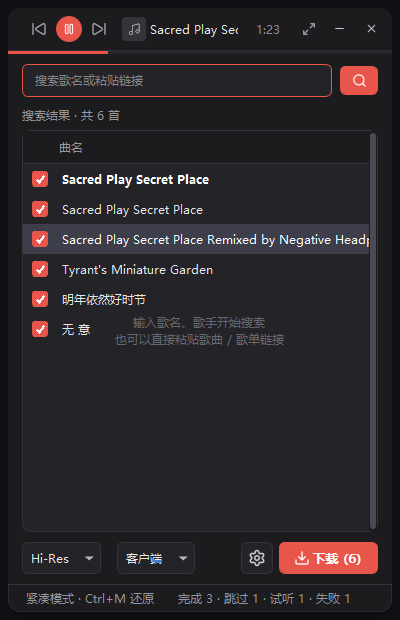
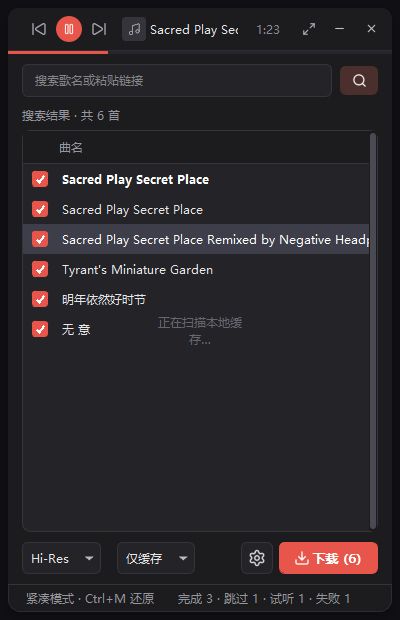
修复登录状态不即时生效、缓存切换重复扫描等问题
- 登录与保存解耦：退出设置即刷新状态栏账号
- 切换「仅缓存」先清空结果并显示扫描中，再扫描
- 修复一次点击启动两个扫描任务（setCurrentIndex 递归触发）
- 扫描失败后停止自动重扫，避免刷屏
- 缓存解密失败回退网络，不再直接报播放失败
- 按码率×体积估算时长，跳过 30 秒试听片段缓存
- 新增停止播放、清理播放缓存
- 版本 1.0.1，截图更新

Changed region(s): [[0.3, 0.4903, 0.72, 0.5823], [0.81, 0.0919, 0.96, 0.1532], [0.3, 0.8887, 0.42, 0.9194]]

diff --git a/gui/main.py b/gui/main.py
@@ -3,7 +3,6 @@ from __future__ import annotations
 
 import logging
 import os
-import tempfile
 from collections import Counter
 from pathlib import Path
 
@@ -257,6 +256,22 @@ class SettingsDialog(RoundDialog):
         cache_row.addWidget(btn_cache)
         form.addRow("缓存目录", cache_row)
 
+        # 未登录时听 VIP 歌会缓存成试听片段，登录后仍是残片；给个入口清掉
+        play_row = QHBoxLayout()
+        play_row.setSpacing(8)
+        self.play_cache_state = QLabel("播放时解密出的临时文件")
+        self.play_cache_state.setObjectName("muted")
+        play_row.addWidget(self.play_cache_state, 1)
+        btn_play_cache = QPushButton("清理")
+        btn_play_cache.setFixedHeight(30)
+        btn_play_cache.setMinimumWidth(58)
+        btn_play_cache.setToolTip(
+            "清掉播放缓存。若某首歌还停在试听片段，清完重新播放会取完整版"
+        )
+        btn_play_cache.clicked.connect(self._clear_play_cache)
+        play_row.addWidget(btn_play_cache)
+        form.addRow("播放缓存", play_row)
+
         self.startup_view = QComboBox()
         self.startup_view.addItem("标准窗口", "full")
         self.startup_view.addItem("紧凑模式", "mini")
@@ -405,6 +420,20 @@ class SettingsDialog(RoundDialog):
                 f"{path}\n这个目录里没有 .uc 缓存文件，可能选错了"
             )
 
+    def _clear_play_cache(self) -> None:
+        from ncm import cache as cache_mod
+
+        count, total = cache_mod.clear_player_cache()
+        if count:
+            self.play_cache_state.setText(
+                f"已清理 {count} 个文件，释放 {total / 1048576:.1f} MB"
+            )
+            self.play_cache_state.setStyleSheet("color:#4caf7d;")
+        else:
+            self.play_cache_state.setText("没有可清理的播放缓存")
+            self.play_cache_state.setStyleSheet("")
+        self.changed = True
+
     def _detect_cache(self) -> None:
         self.cache_dir = cache_mod.default_cache_dir()
         self._refresh_cache_text()
@@ -442,6 +471,9 @@ class MainWindow(QMainWindow):
         self._search_keyword = ""
         self._search_offset = 0
         self._has_more = False
+        # 缓存扫描状态：用于表里那句「正在扫描…」以及失败后停掉自动刷新
+        self._scanning_cache = False
+        self._cache_scan_failed = False
         self._mini = False
         self._full_geometry = None
         self._shadow_px = 12
@@ -746,6 +778,7 @@ class MainWindow(QMainWindow):
         bar.volume_changed.connect(self._on_volume_changed)
         bar.repeat_changed.connect(self._on_repeat_changed)
         bar.toggle_mini.connect(self.toggle_mini)
+        bar.stop_requested.connect(self._stop_playback)
 
         volume = self.settings.value("volume", 70, type=int)
         bar.set_volume(volume)
@@ -774,6 +807,8 @@ class MainWindow(QMainWindow):
         """缓存目录变了就静默重扫，但不打断用户正在做的事。"""
         if self.task is not None or self._current_source() != "cache":
             return
+        if self._cache_scan_failed:
+            return  # 上次就失败了，等用户手动点「本地缓存」再试
         if self._selected_songs():
             return  # 正勾着歌单，重排会清掉勾选，等下次
         self.on_load_cache()
@@ -821,10 +856,24 @@ class MainWindow(QMainWindow):
             return None
         from ncm import cache as cache_mod
 
-        target_dir = Path(tempfile.gettempdir()) / "ncm-player"
+        # 未登录时听 VIP 歌，客户端只缓存 30 秒试听片段；之后登录了再播，
+        # 吃的还是这段残片。用「码率 × 体积」估一下时长，明显短于歌曲时长
+        # 就当作试听片段跳过，让调用方走网络取完整版。
+        if entry.rate and entry.size and song.duration_ms:
+            cached_ms = entry.size * 8 / (entry.rate * 1000) * 1000
+            if cached_ms < song.duration_ms * 0.6:
+                return None
+
+        target_dir = cache_mod.player_cache_dir()
         target_dir.mkdir(parents=True, exist_ok=True)
         scratch = target_dir / f"{song.id}.bin"
-        ext = cache_mod.decode(entry.path, scratch)
+        try:
+            ext = cache_mod.decode(entry.path, scratch)
+        except Exception:  # noqa: BLE001
+            # 缓存文件半截、被占用、或换了客户端版本解不开——别直接失败，
+            # 交回上层走网络，用户至少还能听
+            scratch.unlink(missing_ok=True)
+            return None
         final = target_dir / f"{song.id}.{ext}"
         os.replace(scratch, final)
         return final
@@ -852,6 +901,22 @@ class MainWindow(QMainWindow):
     def _play_row(self, index) -> None:
         row = index.row() if hasattr(index, "row") else int(index)
         self._play_from_list(self.songs, row)
+
+    def _stop_playback(self) -> None:
+        """停止当前播放，回到「没有在播」的干净状态。"""
+        player = getattr(self, "player", None)
+        if player is None:
+            return
+        previous = self._playing_id
+        player.stop()
+        self._playing_id = None
+        self.playlist = []
+        self.play_index = 0
+        self.topbar.set_song(None)
+        self.topbar.set_state("stopped")
+        self.topbar.set_position(0, 0)
+        self._refresh_playing_rows(previous)
+        self.status_label.setText("已停止播放")
 
     def _play_next(self) -> None:
         if not self.playlist:
@@ -1532,15 +1597,25 @@ class MainWindow(QMainWindow):
         self._update_download_button()
 
     def _update_empty_hint(self) -> None:
+        if self._scanning_cache:
+            self.empty_hint.setText("正在扫描本地缓存…")
+            self.empty_hint.show()
+            return
         if self.songs:
             self.empty_hint.hide()
             return
         keyword = self.input.text().strip()
         if self._is_cache_view():
-            self.empty_hint.setText(
-                "客户端里还没有可用的缓存\n"
-                "在网易云播放几首，这里会自动出现"
-            )
+            if self._cache_scan_failed:
+                self.empty_hint.setText(
+                    "没能读到本地缓存\n"
+                    "到「设置 → 缓存目录」确认路径是否正确"
+                )
+            else:
+                self.empty_hint.setText(
+                    "客户端里还没有可用的缓存\n"
+                    "在网易云播放几首，这里会自动出现"
+                )
         elif keyword and not self._looks_like_link(keyword):
             self.empty_hint.setText(
                 f"没搜到「{keyword}」\n换个关键词，或者换个音源试试"
@@ -1682,22 +1757,51 @@ class MainWindow(QMainWindow):
             self.result_info.setText("没有结果")
 
     def on_load_cache(self) -> None:
-        """把客户端缓存里已有的曲目列出来，代替逐个搜索。"""
+        """扫描客户端缓存并列出结果。
+
+        这里自己负责把音源切到「仅缓存」，并且屏蔽信号——否则 setCurrentIndex
+        会再触发一次 _on_source_changed → on_load_cache，变成一次点击跑两个
+        扫描任务，看起来就是「一直在扫缓存」。
+        """
         if self.task is not None:
+            if self._scanning_cache:
+                # 已经在扫了：把旧结果清掉、保持扫描态就行，别让用户以为没反应
+                self._pools.pop("cache", None)
+                self.songs = []
+                self._fill_result_table()
+                self.status_label.setText("正在扫描本地缓存…")
+                self._update_empty_hint()
+                self._update_download_button()
+                return
+            self.status_label.setText("上一个任务还没结束，稍等一下再扫描")
             return
-        # 列表本身来自缓存，把音源切到「仅缓存」，避免勾选后又去请求接口
+
         idx = GUI_SOURCES.index("cache")
         if self.source_box.currentIndex() != idx:
+            self.source_box.blockSignals(True)
             self.source_box.setCurrentIndex(idx)
+            self.source_box.blockSignals(False)
+            self.settings.setValue("source", "cache")
+
+        # 先把上一个音源的结果清干净，再进扫描态，避免旧结果和「扫描中」同屏
+        self._pools.pop("cache", None)
+        self.songs = []
+        self._fill_result_table()
+        self._scanning_cache = True
+        self._cache_scan_failed = False
+        self._update_empty_hint()
+        self._update_download_button()
+
         self._set_busy(True, "扫描本地缓存…")
         self.task = Task(self._scan_cache)
         self.task.ok.connect(self._on_cache_loaded)
-        self.task.fail.connect(self._on_task_error)
+        self.task.fail.connect(self._on_cache_failed)
         self.task.finished.connect(lambda: self._set_busy(False, None))
         self.task.start()
 
     def _on_cache_loaded(self, payload: tuple[str, list[Song]]) -> None:
         title, songs = payload
+        self._scanning_cache = False
         self._pools["cache"] = (list(songs), title, True)
         self._has_more = False
         self.btn_more.hide()
@@ -1707,6 +1811,15 @@ class MainWindow(QMainWindow):
             self.status_label.setText(
                 f"已载入本地缓存 {len(songs)} 首，搜索框只会在缓存内筛选"
             )
+        else:
+            self.status_label.setText("本地缓存里没有可用的曲目")
+
+    def _on_cache_failed(self, message: str) -> None:
+        # 扫描失败后停掉自动刷新，否则缓存目录一有写入就重试，变成刷屏
+        self._scanning_cache = False
+        self._cache_scan_failed = True
+        self._update_empty_hint()
+        self._on_task_error(message)
 
     def _scan_cache(self) -> tuple[str, list[Song]]:
         root = self.cache_dir
@@ -1859,6 +1972,9 @@ class MainWindow(QMainWindow):
             action.setData(key)
             action.setEnabled(enabled)
 
+        if self._playing_id is not None:
+            menu.addAction("停止播放").setData("stop")
+
         menu.addSeparator()
         for text, key, enabled in (
             (f"下载选中（{picked} 首）", "download", picked > 0 and idle),
@@ -1903,6 +2019,8 @@ class MainWindow(QMainWindow):
             self._play_from_list(self.songs, row)
         elif key == "play_one":
             self._play_from_list([song], 0)
+        elif key == "stop":
+            self._stop_playback()
         elif key == "download":
             self.on_download()
         elif key == "one":
@@ -2225,7 +2343,16 @@ class MainWindow(QMainWindow):
     
     def _open_settings(self) -> None:
         dialog = SettingsDialog(self.settings, self.out_dir, self.cache_dir, self)
-        if dialog.exec_() == QDialog.Accepted:
+        accepted = dialog.exec_() == QDialog.Accepted
+        # 登录状态和「保存」是两件事：扫码成功就已经写进配置了，
+        # 用户点不点保存都该在状态栏立刻反映出来
+        self._refresh_account_label()
+        if not accepted:
+            if dialog.changed:
+                self.status_label.setText("登录状态已更新")
+                self._cache_entries = None  # 权限变了，缓存的可用性要重判
+            return
+        if accepted:
             self.workers = dialog.workers.value()
             self.to_mp3 = dialog.to_mp3.isChecked()
             self.name_pattern = dialog.name_box.currentData()
@@ -2290,7 +2417,7 @@ class MainWindow(QMainWindow):
         self.status_label.setText(f"音源：{SOURCE_LABEL.get(key, key)}")
         # 每次切到「仅本地缓存」都重扫：客户端那边可能刚缓存了新歌，
         # 或者用户清过缓存，吃旧结果会显示已经不存在的东西
-        if key == "cache" and self.task is None:
+        if key == "cache":
             self.on_load_cache()
             return
         self._apply_view()

diff --git a/ncm/cache.py b/ncm/cache.py
@@ -12,6 +12,7 @@ from __future__ import annotations
 import json
 import os
 import re
+import tempfile
 from dataclasses import dataclass
 from pathlib import Path
 
@@ -166,3 +167,32 @@ def decode(src: Path, dest: Path) -> str:
             fo.write(plain)
     os.replace(tmp, dest)
     return ext
+
+
+def player_cache_dir() -> Path:
+    """播放时从客户端缓存解密出来的临时文件都放这儿。"""
+    return Path(tempfile.gettempdir()) / "ncm-player"
+
+
+def clear_player_cache() -> tuple[int, int]:
+    """清掉播放缓存，返回 (文件数, 释放字节数)。
+
+    之所以需要它：未登录时听 VIP 歌曲，客户端只会缓存 30 秒试听片段，
+    登录后这段缓存仍然是 30 秒。清掉后重新取，才能拿到完整版。
+    """
+    root = player_cache_dir()
+    if not root.is_dir():
+        return (0, 0)
+    count = 0
+    total = 0
+    for path in root.iterdir():
+        if not path.is_file():
+            continue
+        try:
+            size = path.stat().st_size
+            path.unlink()
+        except OSError:
+            continue
+        count += 1
+        total += size
+    return (count, total)

diff --git a/gui/player.py b/gui/player.py
@@ -336,6 +336,7 @@ class TopBar(QWidget):
     prev = pyqtSignal()
     next = pyqtSignal()
     toggle_mini = pyqtSignal()
+    stop_requested = pyqtSignal()
     seeked = pyqtSignal(int)
     volume_changed = pyqtSignal(int)
     repeat_changed = pyqtSignal(str)
@@ -646,11 +647,15 @@ class TopBar(QWidget):
     def contextMenuEvent(self, event) -> None:
         menu = QMenu(self)
         act_mini = menu.addAction("还原窗口" if self._compact else "紧凑模式")
+        act_stop = menu.addAction("停止播放")
+        act_stop.setEnabled(self._song is not None)
         menu.addSeparator()
         act_close = menu.addAction("关闭")
         chosen = menu.exec_(event.globalPos())
         if chosen is act_mini:
             self.toggle_mini.emit()
+        elif chosen is act_stop:
+            self.stop_requested.emit()
         elif chosen is act_close:
             self._win.close()
 

diff --git a/ncm/__init__.py b/ncm/__init__.py
@@ -1,7 +1,7 @@
 """网易云音乐下载工具核心包。"""
 from __future__ import annotations
 
-__version__ = "1.0.0"
+__version__ = "1.0.1"
 
 from .backend import Backend, BackendError, LocalBackend
 from .models import AudioSource, Playlist, Song

diff --git a/CHANGELOG.md b/CHANGELOG.md
@@ -1,5 +1,26 @@
 # 版本记录
 
+## v1.0.1 — 2026-11-04
+
+### 修复
+
+- **登录状态不生效**：之前在设置里扫码登录后，必须点「保存」状态栏才会更新，
+  点取消就仍显示未登录。登录与保存是两件事，现在退出设置对话框即刷新。
+- **切换「仅本地缓存」时旧结果不清空**：现在先把上一个音源的结果清掉、进入
+  「正在扫描本地缓存…」状态，再开始扫描。
+- **一次点击启动两个缓存扫描**：`on_load_cache()` 内部切换音源会再次触发
+  `_on_source_changed` → `on_load_cache`，导致两份扫描任务同时跑，表现为
+  「一直在扫缓存」。改为屏蔽信号，扫描期间再点也只是重置视图。
+- **扫描失败后自动刷新刷屏**：失败后停掉目录监听触发的自动重扫，等用户手动再点。
+- **本地缓存播放失败**：缓存文件损坏或解不开时直接报错，现在回退到网络取流。
+- **VIP 歌曲卡在 30 秒试听片段**：未登录时客户端只缓存 30 秒，登录后仍按缓存播放。
+  现在用「码率 × 体积」估时长，明显短于歌曲时长就跳过该缓存走网络。
+
+### 新增
+
+- **停止播放**：播放条右键、结果表右键都可停止，回到「没有在播」的干净状态。
+- **清理播放缓存**：设置里新增入口，清掉解密出来的临时音频文件，返回数量和释放空间。
+
 ## v1.0.0 — 2026-11-04
 
 首个可分发版本。
